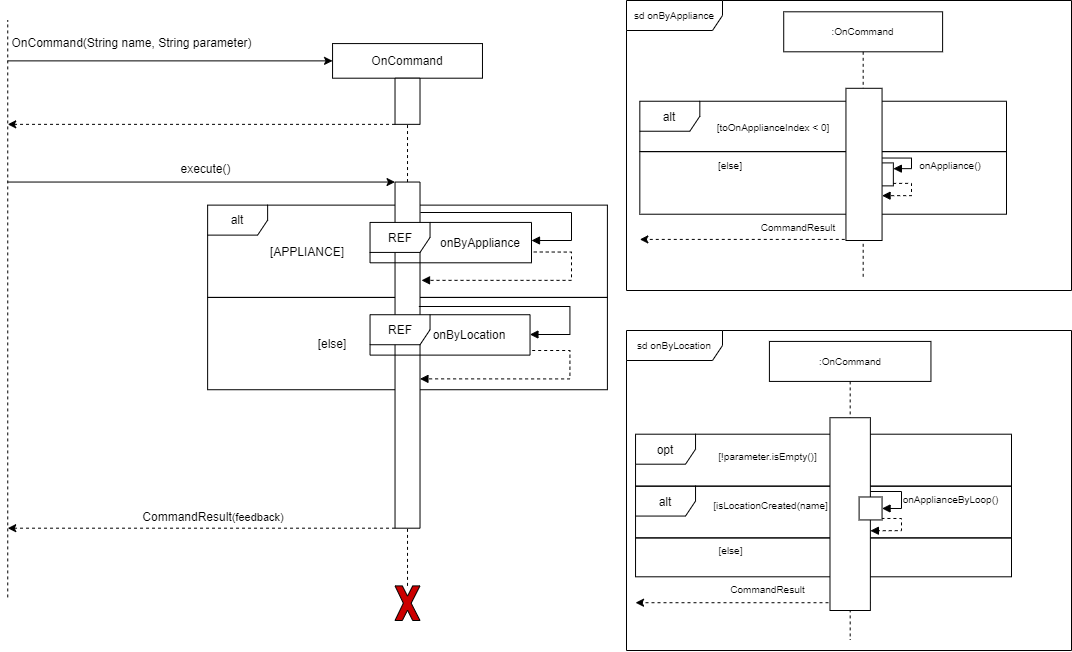
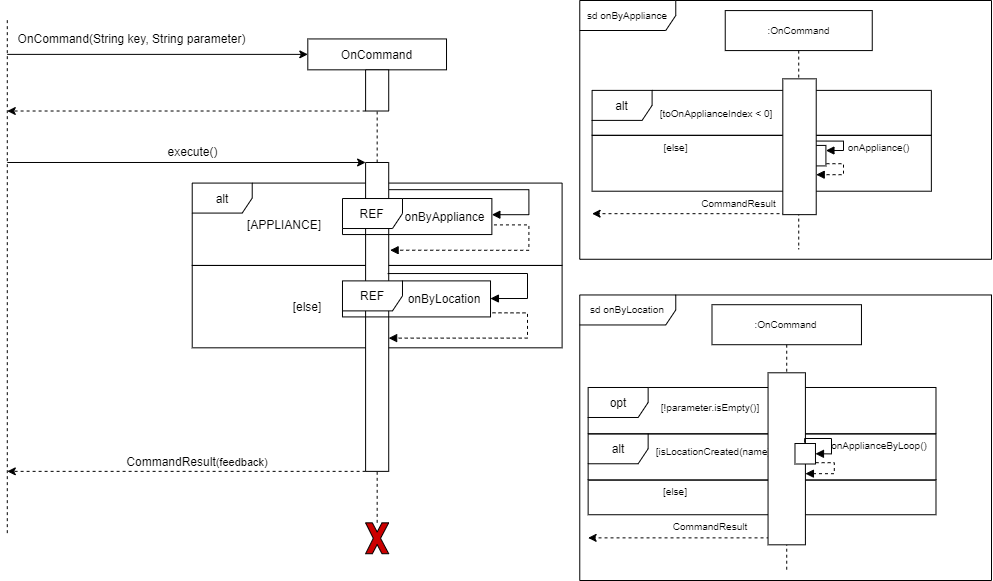
Changed conditions for ON/OFF appliances

diff --git a/src/main/java/seedu/smarthomebot/logic/commands/OnCommand.java b/src/main/java/seedu/smarthomebot/logic/commands/OnCommand.java
@@ -7,7 +7,7 @@ import seedu.smarthomebot.data.appliance.Appliance;
 import java.util.ArrayList;
 
 import static java.util.stream.Collectors.toList;
-import static seedu.smarthomebot.commons.Messages.MESSAGE_APPLIANCE_NOT_EXIST;
+import static seedu.smarthomebot.commons.Messages.MESSAGE_APPLIANCE_OR_LOCATION_NOT_EXIST;
 import static seedu.smarthomebot.commons.Messages.LINE;
 import static seedu.smarthomebot.commons.Messages.MESSAGE_APPLIANCE_PREVIOUSLY_ON;
 
@@ -19,22 +19,23 @@ public class OnCommand extends Command {
             + COMMAND_WORD + " [LOCATION_NAME]";
     private static final String APPLIANCE_TYPE = "appliance";
     private static final String LOCATION_TYPE = "location";
-    private final String name;
+    private final String key;
     private final String parameter;
 
-    public OnCommand(String name, String parameter) {
-        this.name = name;
+    public OnCommand(String key, String parameter) {
+        this.key = key;
         this.parameter = parameter;
     }
 
     @Override
     public CommandResult execute() {
         String onByType = APPLIANCE_TYPE;
-        // To determine if the keyword is a location, if so, append that selected appliance into a list
+        // To check if any of the appliances contains the name of the location
         ArrayList<Appliance> filterApplianceList =
                 (ArrayList<Appliance>) applianceList.getAllAppliance().stream()
-                        .filter((s) -> s.getLocation().equals(name))
+                        .filter((s) -> s.getLocation().equals(this.key))
                         .collect(toList());
+
         // if list is empty
         if (!filterApplianceList.isEmpty()) {
             onByType = LOCATION_TYPE;
@@ -51,7 +52,7 @@ public class OnCommand extends Command {
 
     private int getApplianceToOnIndex() {
         for (Appliance appliance : applianceList.getAllAppliance()) {
-            if (appliance.getName().equals((this.name))) {
+            if (appliance.getName().equals((this.key))) {
                 return applianceList.getAllAppliance().indexOf(appliance);
             }
         }
@@ -74,20 +75,17 @@ public class OnCommand extends Command {
     private CommandResult onByLocation() {
         if (!parameter.isEmpty()) {
             return new CommandResult("There should be no parameter for on by location.");
-        }
-        if (locationList.isLocationCreated(this.name)) {
+        }  else {
             String outputResults = LINE;
             outputResults = onApplianceByLoop(outputResults);
             return new CommandResult(outputResults);
-        } else {
-            return new CommandResult("No appliances found in this location");
         }
     }
 
     private CommandResult onByAppliance() {
         int toOnApplianceIndex = getApplianceToOnIndex();
         if (toOnApplianceIndex < 0) {
-            return new CommandResult(MESSAGE_APPLIANCE_NOT_EXIST);
+            return new CommandResult(MESSAGE_APPLIANCE_OR_LOCATION_NOT_EXIST);
         } else {
             Appliance toOnAppliance = applianceList.getAppliance(toOnApplianceIndex);
             String outputResult = onAppliance(toOnAppliance, "", false);
@@ -97,11 +95,11 @@ public class OnCommand extends Command {
 
     private String onApplianceByLoop(String outputResults) {
         for (Appliance toOnAppliance : applianceList.getAllAppliance()) {
-            if (toOnAppliance.getLocation().equals(this.name)) {
+            if (toOnAppliance.getLocation().equals(this.key)) {
                 outputResults = onAppliance(toOnAppliance, outputResults, true);
             }
         }
-        outputResults = "All appliance in \"" + this.name + "\" are turned on ";
+        outputResults = "All appliance in \"" + this.key + "\" are turned on ";
         return outputResults;
     }
 

diff --git a/src/main/java/seedu/smarthomebot/logic/commands/OffCommand.java b/src/main/java/seedu/smarthomebot/logic/commands/OffCommand.java
@@ -5,7 +5,7 @@ import seedu.smarthomebot.data.appliance.Appliance;
 import java.util.ArrayList;
 
 import static java.util.stream.Collectors.toList;
-import static seedu.smarthomebot.commons.Messages.MESSAGE_APPLIANCE_NOT_EXIST;
+import static seedu.smarthomebot.commons.Messages.MESSAGE_APPLIANCE_OR_LOCATION_NOT_EXIST;
 import static seedu.smarthomebot.commons.Messages.MESSAGE_APPLIANCE_PREVIOUSLY_OFF;
 import static seedu.smarthomebot.commons.Messages.LINE;
 
@@ -16,15 +16,15 @@ public class OffCommand extends Command {
             + " [APPLIANCE_NAME] \n\t\t b. " + COMMAND_WORD + " [LOCATION_NAME]";
     private static final String APPLIANCE_TYPE = "appliance";
     private static final String LOCATION_TYPE = "location";
-    private final String name;
+    private final String key;
 
-    public OffCommand(String name) {
-        this.name = name;
+    public OffCommand(String key) {
+        this.key = key;
     }
 
     private int getApplianceToOffIndex() {
         for (Appliance appliance : applianceList.getAllAppliance()) {
-            if (appliance.getName().equals((this.name))) {
+            if (appliance.getName().equals((this.key))) {
                 return applianceList.getAllAppliance().indexOf(appliance);
             }
         }
@@ -36,7 +36,7 @@ public class OffCommand extends Command {
         String type = APPLIANCE_TYPE;
         ArrayList<Appliance> filterApplianceList =
                 (ArrayList<Appliance>) applianceList.getAllAppliance().stream()
-                        .filter((s) -> s.getLocation().equals(this.name))
+                        .filter((s) -> s.getLocation().equals(this.key))
                         .collect(toList());
         if (!filterApplianceList.isEmpty()) {
             type = LOCATION_TYPE;
@@ -55,7 +55,7 @@ public class OffCommand extends Command {
         int toOffApplianceIndex = getApplianceToOffIndex();
         if (toOffApplianceIndex < 0) {
             assert toOffApplianceIndex < 0 : "Index should be negative.";
-            return new CommandResult(MESSAGE_APPLIANCE_NOT_EXIST);
+            return new CommandResult(MESSAGE_APPLIANCE_OR_LOCATION_NOT_EXIST);
         } else {
             assert toOffApplianceIndex > 0 : "Index should be positive.";
             Appliance toOffAppliance = applianceList.getAppliance(toOffApplianceIndex);
@@ -65,19 +65,15 @@ public class OffCommand extends Command {
     }
 
     private CommandResult offByLocation() {
-        if (locationList.isLocationCreated(this.name)) {
-            String outputResults = LINE;
-            outputResults = offByApplianceLoop(outputResults);
-            outputResults = outputResults.concat("All appliance in \"" + this.name + "\" are turned off ");
-            return new CommandResult(outputResults);
-        } else {
-            return new CommandResult("No appliance in this location");
-        }
+        String outputResults = offByApplianceLoop();
+        outputResults = outputResults.concat("All appliance in \"" + this.key + "\" are turned off ");
+        return new CommandResult(outputResults);
     }
 
-    private String offByApplianceLoop(String outputResults) {
+    private String offByApplianceLoop() {
+        String outputResults = LINE;
         for (Appliance toOffAppliance : applianceList.getAllAppliance()) {
-            if (toOffAppliance.getLocation().equals(this.name)) {
+            if (toOffAppliance.getLocation().equals(this.key)) {
                 outputResults = offAppliance(toOffAppliance, outputResults, true);
             }
         }

diff --git a/src/main/java/seedu/smarthomebot/logic/commands/RemoveCommand.java b/src/main/java/seedu/smarthomebot/logic/commands/RemoveCommand.java
@@ -4,7 +4,7 @@ import seedu.smarthomebot.commons.exceptions.ApplianceNotFoundException;
 import seedu.smarthomebot.commons.exceptions.InvalidRemovalLocationException;
 
 import static seedu.smarthomebot.commons.Messages.LINE;
-import static seedu.smarthomebot.commons.Messages.MESSAGE_APPLIANCE_NOT_EXIST;
+import static seedu.smarthomebot.commons.Messages.MESSAGE_APPLIANCE_OR_LOCATION_NOT_EXIST;
 import static seedu.smarthomebot.commons.Messages.MESSAGE_LOCATION_NOT_EXIST;
 
 public class RemoveCommand extends Command {
@@ -27,7 +27,7 @@ public class RemoveCommand extends Command {
         } catch (InvalidRemovalLocationException e) {
             return new CommandResult(MESSAGE_LOCATION_NOT_EXIST + " Nothing will be deleted.");
         } catch (ApplianceNotFoundException e) {
-            return new CommandResult(MESSAGE_APPLIANCE_NOT_EXIST + " Nothing will be deleted.");
+            return new CommandResult(MESSAGE_APPLIANCE_OR_LOCATION_NOT_EXIST + " Nothing will be deleted.");
         }
     }
 }

diff --git a/src/main/java/seedu/smarthomebot/commons/Messages.java b/src/main/java/seedu/smarthomebot/commons/Messages.java
@@ -44,7 +44,8 @@ public class Messages {
     public static final String MESSAGE_APPLIANCE_PREVIOUSLY_ON = "The appliance is already ON. ";
     public static final String MESSAGE_APPLIANCE_PREVIOUSLY_OFF = "The appliance is already OFF. ";
     public static final String MESSAGE_FILE_CORRUPTED = "Data file is corrupted, some data will not be entered";
-    public static final String MESSAGE_APPLIANCE_NOT_EXIST = "Appliance does not exist in the list.";
+    public static final String MESSAGE_APPLIANCE_OR_LOCATION_NOT_EXIST =
+            "Appliance or Location does not exist in the list.";
     public static final String MESSAGE_INVALID_TEMPERATURE_AC =
             "Invalid Temperature is inputted, ensure that it is within 16-30 degrees. \n"
                     + "Previous set temperature will be set.";
